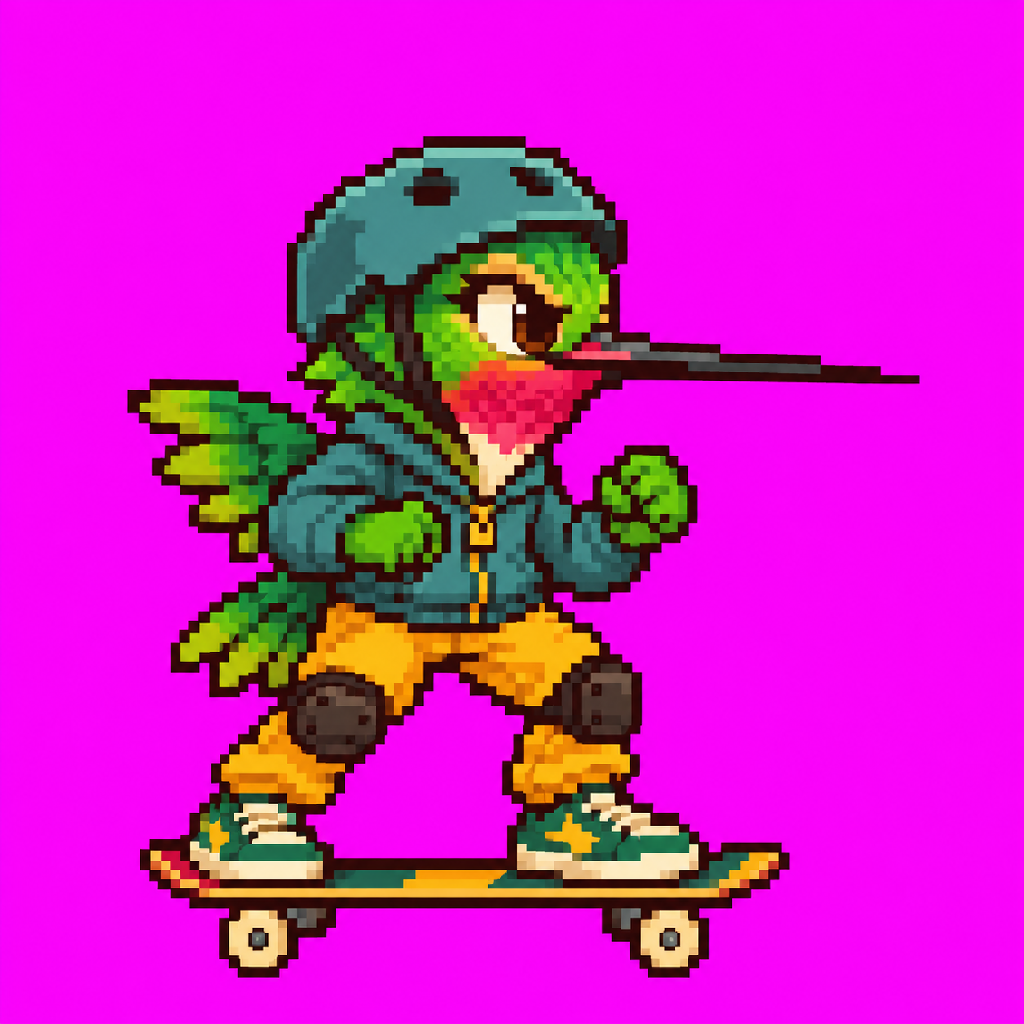
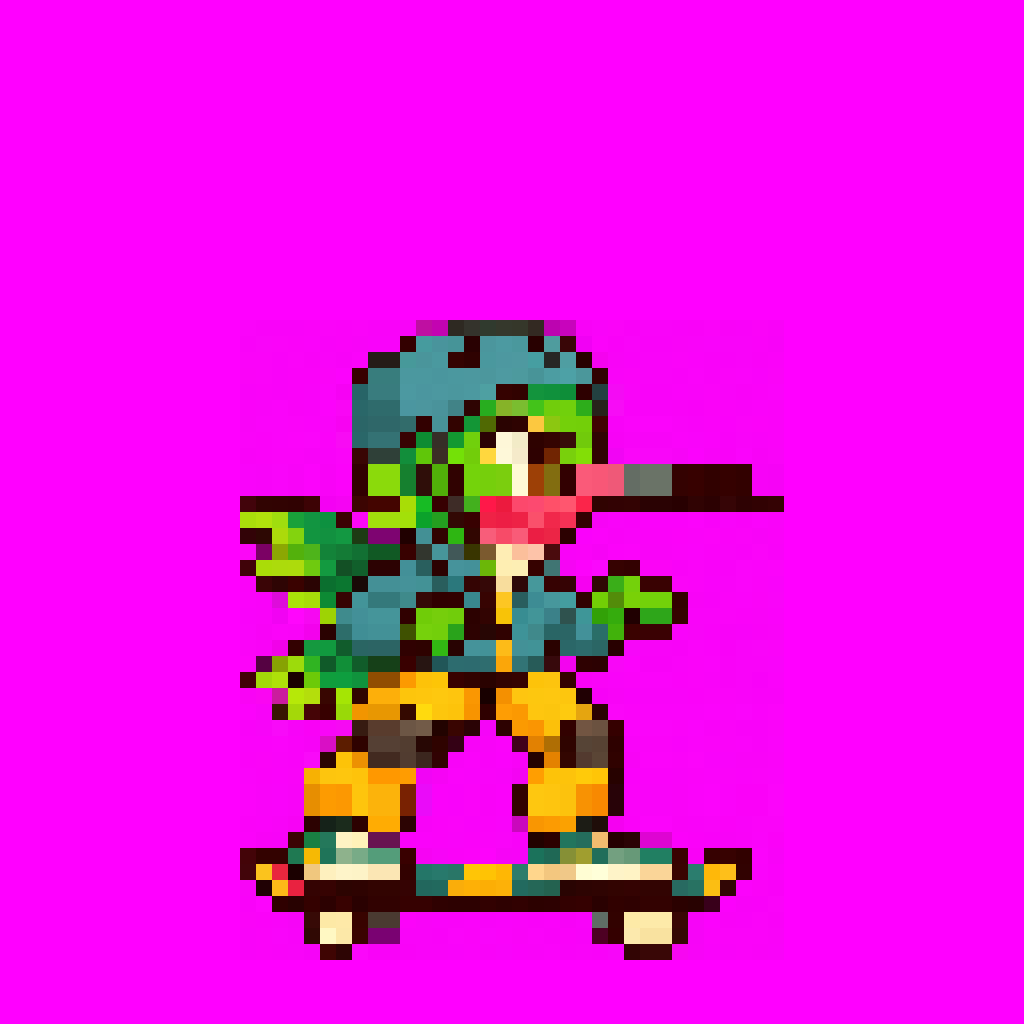
Round 11: Beija (40 px) and Preguinho (46 px) bases/idles redone smaller, approved

diff --git a/art/prompts/pixel/macaco_prego.md b/art/prompts/pixel/macaco_prego.md
@@ -1,6 +1,6 @@
 # Preguinho — paleta e altura
 
-Altura medida no `base.png`: aproximadamente 51 px em escala lógica 64x64 (pedido: ~46 px). A imagem saiu em 1254x1254, não 1024x1024.
+Altura final: 46 px lógicos (de 64) em `base.png`; sprite em 1024x1024 (ampliação 16x). `parado.png`: 1536x1024, quatro quadros de 46 px lógicos com a mesma linha dos pés; células 5 e 6 vazias.
 
 Paleta documentada (até 16 cores, incluindo contorno e fundo; tons aproximados da arte gerada):
 
@@ -15,4 +15,4 @@ Paleta documentada (até 16 cores, incluindo contorno e fundo; tons aproximados 
 | Contorno | — | #2A0F12 | — |
 | Fundo | — | #FF00FF | — |
 
-A folha `parado.png` saiu em 1536x1024. A respiração e as pequenas mudanças de cauda são discretas; visualmente a pose está estável.
+A folha anterior `parado.png` saiu em 1536x1024. A respiração da nova folha continua discreta; visualmente a pose estável.

diff --git a/art/prompts/pixel/beija_flor.md b/art/prompts/pixel/beija_flor.md
@@ -1,6 +1,6 @@
 # Paleta e escala — beija_flor
 
-Altura medida no candidato: aproximadamente 40 px, alvo ~40 px.
+Altura final: 40 px lógicos (de 64) em `base.png`; sprite em 1024x1024 (ampliação 16x). `parado.png`: 1536x1024, quatro quadros de 40 px lógicos com a mesma linha dos pés; células 5 e 6 vazias.
 
 | Material | Luz | Base | Sombra |
 |---|---|---|---|
@@ -11,4 +11,4 @@ Altura medida no candidato: aproximadamente 40 px, alvo ~40 px.
 | Roupa e skate | #FFD02C | #ECA91C | #8A5B18 |
 | Fundo | — | #FF00FF | — |
 
-Cores estimadas visualmente do conceito aprovado e do candidato. O candidato ainda precisa de revisão: detalhe fino, paleta extensa e pose/altura exata não verificadas.
+Cores estimadas visualmente do conceito aprovado e do candidato anterior; a paleta deve continuar sendo usada nos sprites finais.
